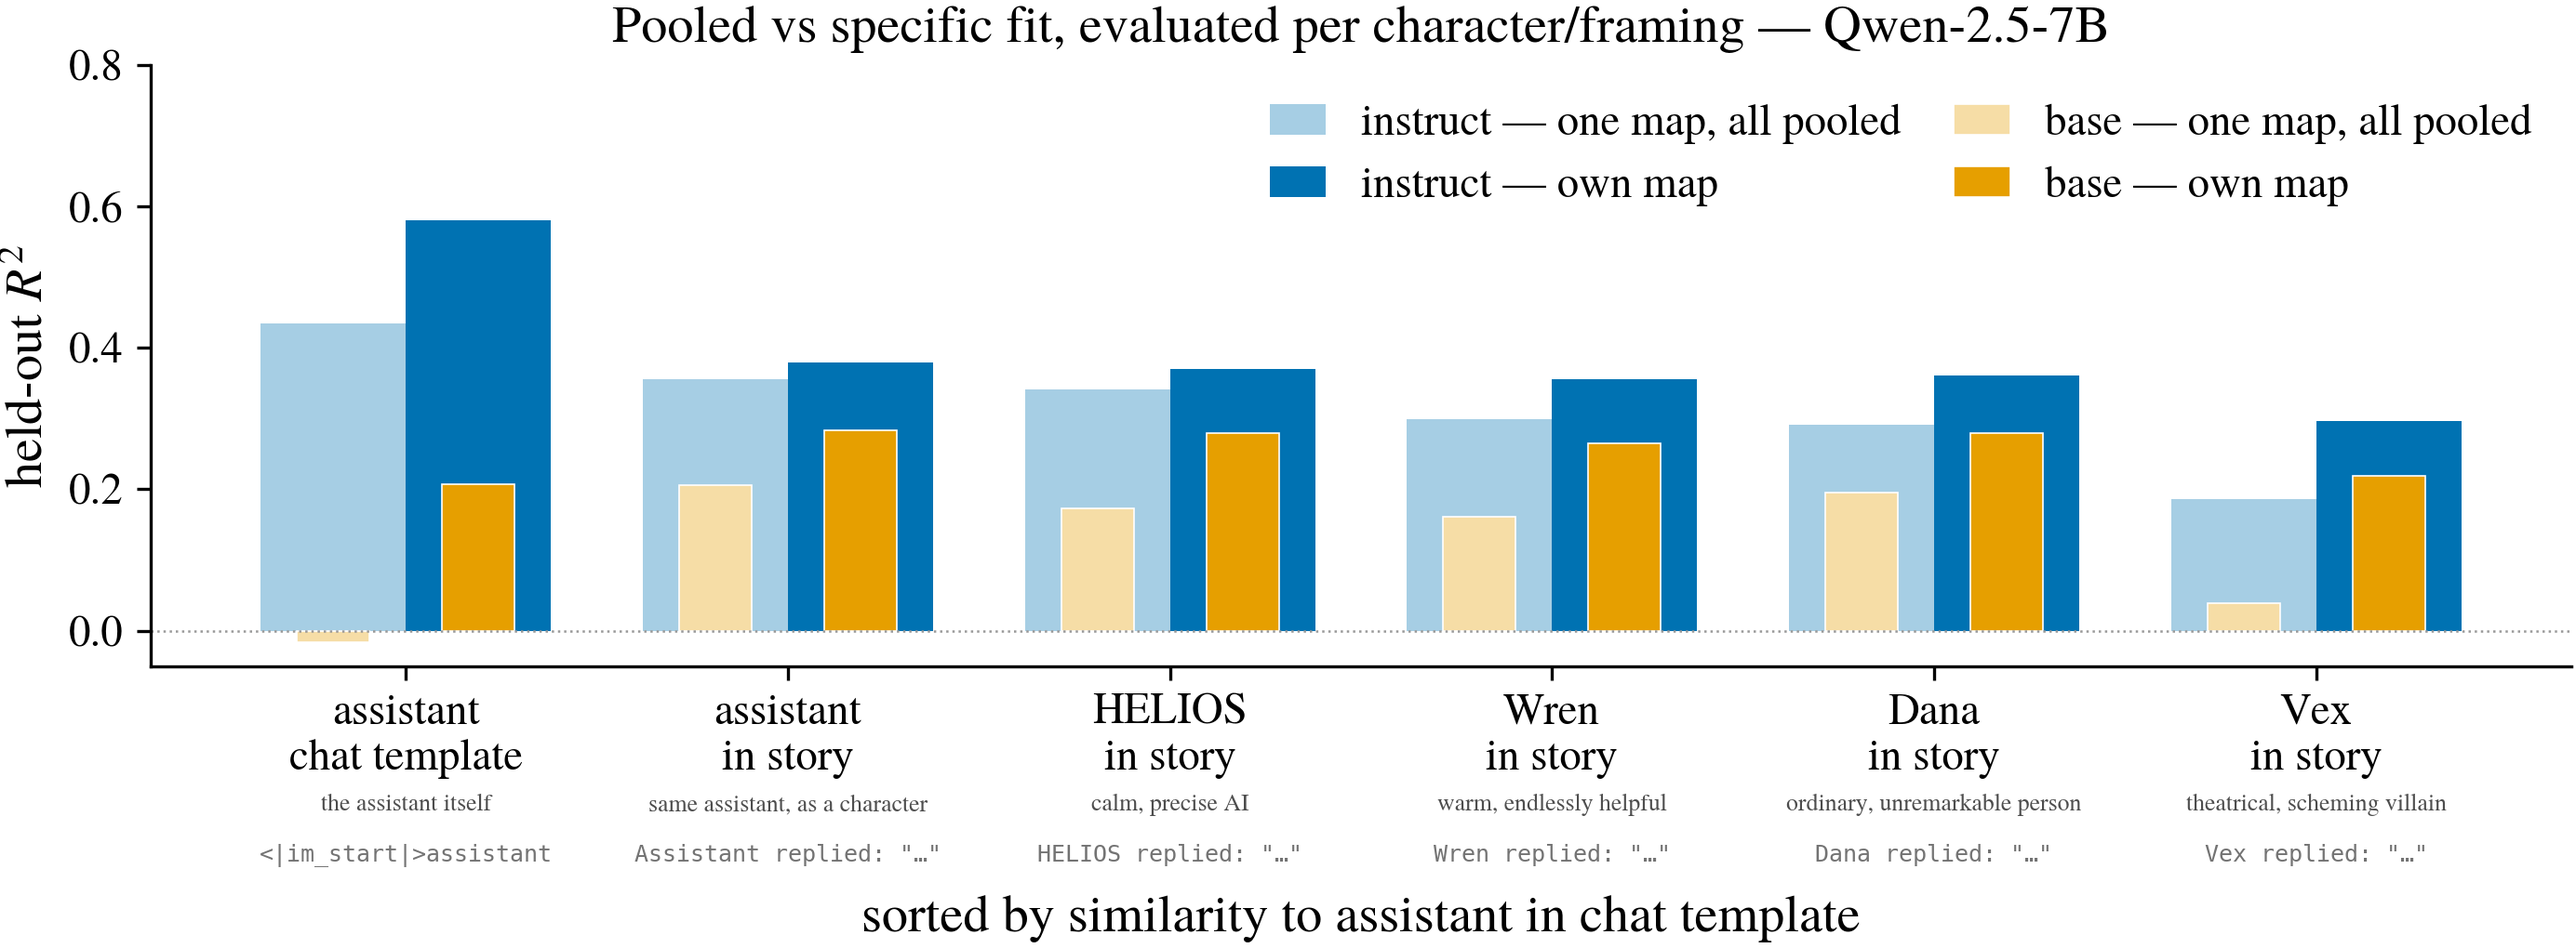
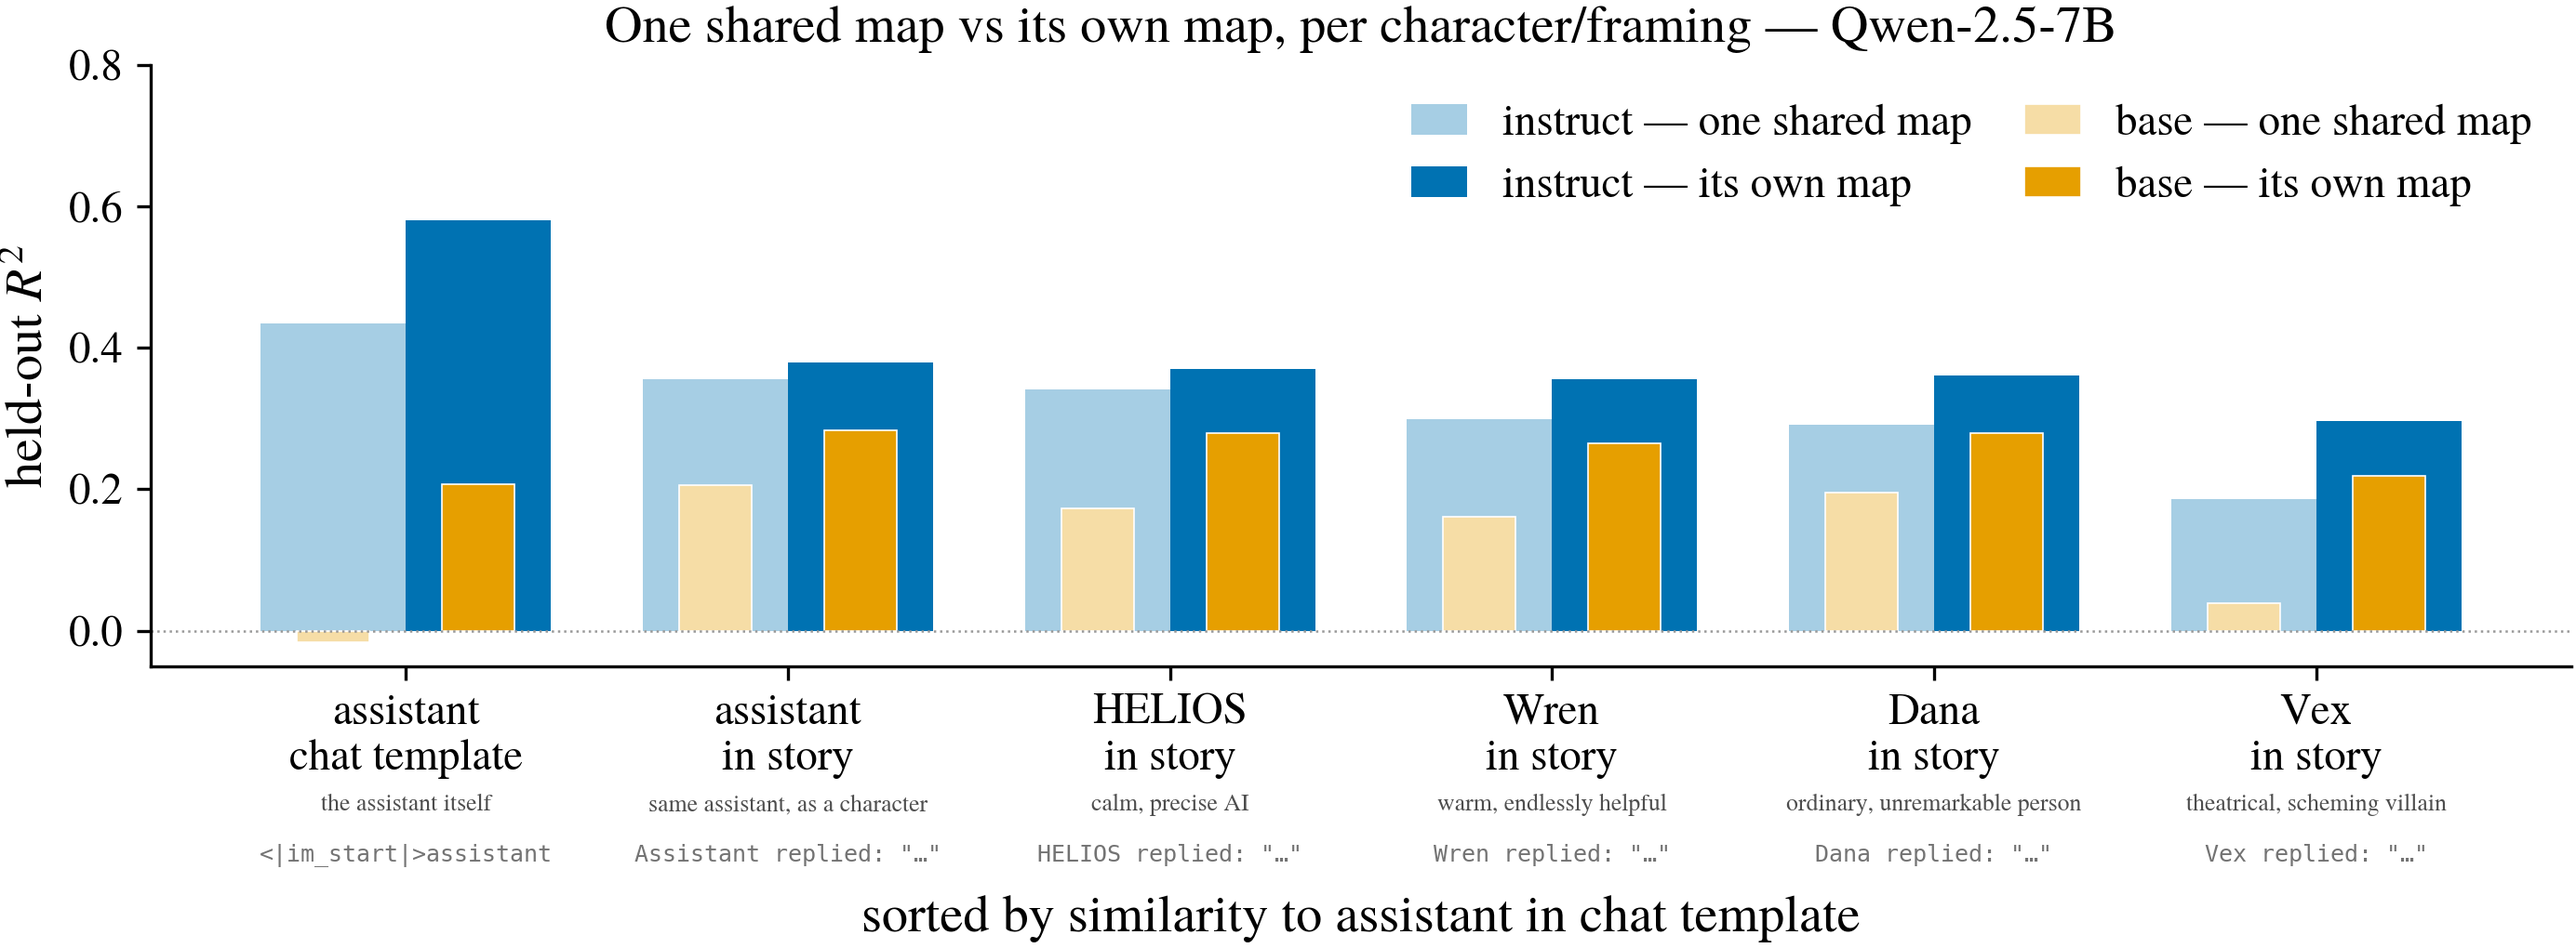
poster: plot6c — say "one shared map" instead of "pooled"
"Pooled" reads as vague on a poster: it names the fitting procedure, not what
the reader is being shown. "One shared map vs its own map" says the contrast
directly, and it is not an invented term — #1310 already calls this leg the
shared-vs-specific decomposition, so the figure now matches the project's own
vocabulary.

Display text only. The sidecar keys keep pooled_m0 so they still trace to the
digest field r2_pooled_m0.

Generated with [Claude Code](https://claude.ai/code)
via [Happy](https://happy.engineering)

Changed region(s): [[0.4659, 0.0912, 0.9939, 0.2127], [0.2174, 0.0, 0.8386, 0.0608]]

diff --git a/docs/posters/mats_2026/make_plot6c_pooled_lattice.py b/docs/posters/mats_2026/make_plot6c_pooled_lattice.py
@@ -1,7 +1,8 @@
 """MATS 2026 poster, section 6 ("Is it a persona mapping?"): the #2054 replacement.
 
 Supersedes make_plot6_persona.py's plot6b for the poster's section-6 slot. Same
-figure grammar (pooled map vs own map, held-out R^2), but every group is drawn
+figure grammar (one shared map vs each one's own map, held-out R^2), but every
+group is drawn
 from ONE #2054 pooled lattice, so all six are directly comparable and the
 plot6b "*different pool + grain" asterisk disappears.
 
@@ -23,10 +24,15 @@ SIX GROUPS, on-policy condition, attributed-quote boundary for every story cell:
                            verbatim (see SHORT_DESC).
 
 TWO BARS per group, per model:
-  light  pooled map (M0)  — ONE ridge map fit jointly on all 56 #2054 cells
+  light  one shared map   — ONE ridge map fit jointly on all 56 #2054 cells
                             (both models, every framing/identity/condition),
-                            scored on this cell's held-out folds.
-  strong own map          — this cell's banked within-cell ceiling (the same
+                            scored on this cell's held-out folds. Displayed as
+                            "one shared map" rather than "pooled" (vaguer, user
+                            2026-08-21); it matches #1310's own name for this
+                            leg, the SHARED-vs-SPECIFIC decomposition. The
+                            sidecar KEYS keep `pooled_m0` so they still trace
+                            to the digest field `r2_pooled_m0`.
+  strong its own map      — this cell's banked within-cell ceiling (the same
                             estimator fit on this cell alone).
 
 X ORDER: descending direct (rung-1) transfer of the assistant chat-template map
@@ -196,14 +202,14 @@ def plot_combined(per_model: dict[str, list[dict]], ylim: tuple[float, float]) -
         [c["pooled_m0_r2"] for c in per_model["instruct"]],
         width=w_wide,
         color=i_light,
-        label="instruct — one map, all pooled",
+        label="instruct — one shared map",
     )
     ax.bar(
         xs + w_wide / 2,
         [c["own_map_ceiling_r2"] for c in per_model["instruct"]],
         width=w_wide,
         color=i_strong,
-        label="instruct — own map",
+        label="instruct — its own map",
     )
     ax.bar(
         xs - w_wide / 2,
@@ -212,7 +218,7 @@ def plot_combined(per_model: dict[str, list[dict]], ylim: tuple[float, float]) -
         color=b_light,
         edgecolor="white",
         linewidth=0.4,
-        label="base — one map, all pooled",
+        label="base — one shared map",
     )
     ax.bar(
         xs + w_wide / 2,
@@ -221,7 +227,7 @@ def plot_combined(per_model: dict[str, list[dict]], ylim: tuple[float, float]) -
         color=b_strong,
         edgecolor="white",
         linewidth=0.4,
-        label="base — own map",
+        label="base — its own map",
     )
     ax.axhline(0.0, color="0.6", lw=0.6, ls=":", zorder=1)
 
@@ -259,7 +265,7 @@ def plot_combined(per_model: dict[str, list[dict]], ylim: tuple[float, float]) -
     # as missing data rather than as a map that fails on that cell.
     ax.set_ylim(*ylim)
     ax.set_xlabel("sorted by similarity to assistant in chat template", labelpad=30)
-    ax.set_title("Pooled vs specific fit, evaluated per character/framing — Qwen-2.5-7B")
+    ax.set_title("One shared map vs its own map, per character/framing — Qwen-2.5-7B")
     ax.legend(frameon=False, loc="upper right", ncols=2, handlelength=1.3, columnspacing=1.2)
     fig.tight_layout()
     fig.subplots_adjust(bottom=0.34)
